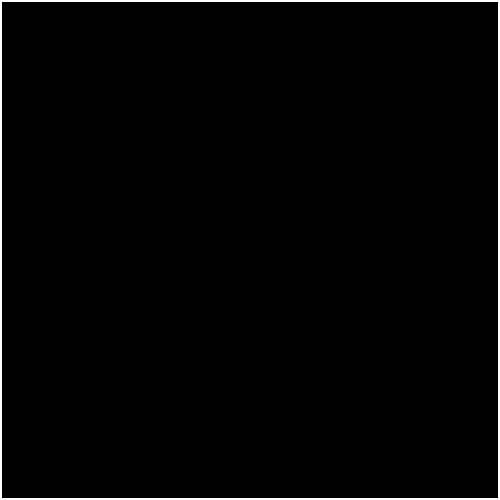
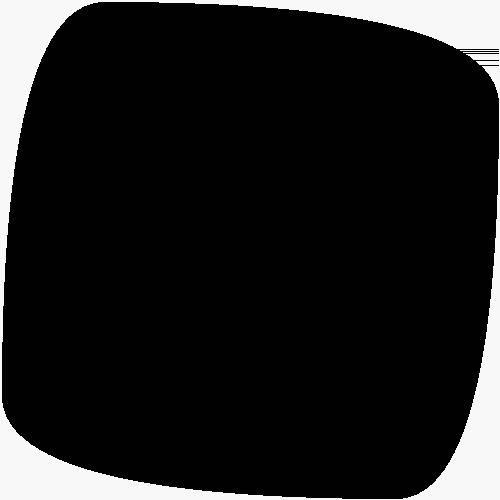
lien app - morphing

diff --git a/Projet Java/src/morphingFonction/Test.java b/Projet Java/src/morphingFonction/Test.java
@@ -3,6 +3,7 @@ package morphingFonction;
 import java.io.File;
 import java.util.ArrayList;
 import java.util.List;
+import javafx.scene.paint.Color;
 
 import first.QCurve;
 
@@ -10,69 +11,45 @@ import first.QCurve;
  * Classe Test contenant la méthode main pour tester le morphing d'images.
  */
 public class Test {
-	
+
 	/**
-     * Méthode principale pour exécuter le test de morphing d'images.
-     * 
-     * @param args les arguments de la ligne de commande
-     * @throws Exception si une erreur se produit lors de la lecture du fichier ou de la manipulation de l'image
-     */
+	 * Méthode principale pour exécuter le test de morphing d'images.
+	 * 
+	 * @param args les arguments de la ligne de commande
+	 * @throws Exception si une erreur se produit lors de la lecture du fichier ou
+	 *                   de la manipulation de l'image
+	 */
 	public static void main(String[] args) throws Exception {
-		
+
 		List<QCurve> tabD = new ArrayList<>();
-        tabD.add(0, new QCurve(2,2,2,2,2,498));
-        tabD.add(1, new QCurve(2,498,2,498,498,498));
-        tabD.add(2, new QCurve(498,498,498,498,498,2));
-        tabD.add(3, new QCurve(498,2,498,2,2,2));
-        
-        List<QCurve> tabF = new ArrayList<>();
-        tabF.add(0, new QCurve(250,2,2,2,2,250));
-        tabF.add(1, new QCurve(2,250,2,498,250,498));
-        tabF.add(2, new QCurve(250,498,498,498,498,250));
-        tabF.add(3, new QCurve(498,250,498,2,250,2));
-        
-        double nombreImg = 60;
-        int i = 25;
-        
-        QCurve[] tabIncrement = new QCurve[tabD.size()];
-        for (int j = 0; j < tabD.size(); j++) {
-            double XDepart = (tabF.get(j).getXDepart() - tabD.get(j).getXDepart()) / nombreImg;
-            double YDepart = (tabF.get(j).getYDepart() - tabD.get(j).getYDepart()) / nombreImg;
-            double XControl = (tabF.get(j).getXControl() - tabD.get(j).getXControl()) / nombreImg;
-            double YControl = (tabF.get(j).getYControl() - tabD.get(j).getYControl()) / nombreImg;
-            double XFin = (tabF.get(j).getXFin() - tabD.get(j).getXFin()) / nombreImg;
-            double YFin = (tabF.get(j).getYFin() - tabD.get(j).getYFin()) / nombreImg;
+		tabD.add(0, new QCurve(2.0, 2.0, 2.0, 2.0, 2.0, 498.0, Color.BLUE));
+		tabD.add(1, new QCurve(2, 498, 2, 498, 498, 498, Color.BLUE));
+		tabD.add(2, new QCurve(498, 498, 498, 498, 498, 2, Color.BLUE));
+		tabD.add(3, new QCurve(498, 2, 498, 2, 2, 2, Color.BLUE));
 
-            tabIncrement[j] = new QCurve(XDepart, YDepart, XControl, YControl, XFin, YFin);
-        }
+		List<QCurve> tabF = new ArrayList<>();
+		tabF.add(0, new QCurve(250, 2, 2, 2, 2, 250, Color.BLUE));
+		tabF.add(1, new QCurve(2, 250, 2, 498, 250, 498, Color.BLUE));
+		tabF.add(2, new QCurve(250, 498, 498, 498, 498, 250, Color.BLUE));
+		tabF.add(3, new QCurve(498, 250, 498, 2, 250, 2, Color.BLUE));
 
-        List<QCurve> tabSuivant = new ArrayList<>();
-        for (int j = 0; j < tabD.size(); j++) {
-            double XDepart = tabD.get(j).getXDepart() + (i * tabIncrement[j].getXDepart());
-            double YDepart = tabD.get(j).getYDepart() + (i * tabIncrement[j].getYDepart());
-            double XControl = tabD.get(j).getXControl() + (i * tabIncrement[j].getXControl());
-            double YControl = tabD.get(j).getYControl() + (i * tabIncrement[j].getYControl());
-            double XFin = tabD.get(j).getXFin() + (i * tabIncrement[j].getXFin());
-            double YFin = tabD.get(j).getYFin() + (i * tabIncrement[j].getYFin());
+		//double nombreImg = 60;
+		//int i = 25;
 
-            if (j == 0) {
-                tabSuivant.add(new QCurve(XDepart, YDepart, XControl, YControl, XFin, YFin));
-            } else {
-                tabSuivant.add(new QCurve(tabSuivant.get(j-1).getXFin(), tabSuivant.get(j-1).getYFin(), XControl, YControl, XFin, YFin));
-                System.out.println(XDepart + "," + tabSuivant.get(j).getXFin() + "," + XFin);
-            }
-        }
-        /*tabF.add(0, new QCurve(250,2,2,2,2,250));
-        tabF.add(0, new QCurve(2,250,2,498,250,498));
-        tabF.add(0, new QCurve(250,498,498,498,498,250));
-        tabF.add(0, new QCurve(498,250,498,2,250,2));*/
 		
+		/*
+		 * tabF.add(0, new QCurve(250,2,2,2,2,250)); tabF.add(0, new
+		 * QCurve(2,250,2,498,250,498)); tabF.add(0, new
+		 * QCurve(250,498,498,498,498,250)); tabF.add(0, new
+		 * QCurve(498,250,498,2,250,2));
+		 */
+
 		MorphingImg m = new MorphingImg(new File("img/gImg.jpg"), tabD);
-		
-		m.imgSuivanteFormeArrondie(tabSuivant);
-		m.creerImage();
-		//m.creerGif(tabD, tabF, 60);
-		
+
+		//m.imgSuivanteFormeArrondie(tabSuivant);
+		//m.creerImage();
+		 m.creerGif(tabD, tabF, 60);
+
 		System.out.println("Traitement terminé!");
 	}
 }

diff --git a/Projet Java/src/first/FormesArrondies.java b/Projet Java/src/first/FormesArrondies.java
@@ -1,5 +1,8 @@
 package first;
 
+import morphingFonction.*;
+
+import java.io.File;
 import java.util.ArrayList;
 import java.util.List;
 
@@ -53,6 +56,7 @@ public class FormesArrondies extends Application {
 	private ColorPicker coulCurv;
 	private Button clo;
 	private Button del;
+	private Button startMorph;
 	private QCurve curve1;
 	private QCurve curve2;
 
@@ -103,11 +107,19 @@ public class FormesArrondies extends Application {
 		del.setDisable(true);
 		del.setOnAction(event -> delete()); // Définir le gestionnaire d'événements
 		
+		startMorph = new Button("Commencer le morphing");
+        startMorph.setOnAction(event -> {
+			try {
+				startMorphing();
+			} catch (Exception e) {
+				e.printStackTrace();
+			}
+		});
 		
 		Label labCoulCurv = new Label("Couleur de la courbe");
 		coulCurv = new ColorPicker(Color.BLUE);
 		coulCurv.setOnAction(event -> changeColor(coulCurv.getValue()));
-		right.getChildren().addAll(clo,del,labCoulCurv,coulCurv);
+		right.getChildren().addAll(clo,del,labCoulCurv,coulCurv, startMorph);
 
 		
 		root = new BorderPane();
@@ -317,6 +329,25 @@ public class FormesArrondies extends Application {
 		gestPoints1.setOnMouseClicked(clickHandler);
 	}
 
+	
+    private void startMorphing() throws Exception {
+        List<QCurve> tabD = new ArrayList<>();
+        List<QCurve> tabF = new ArrayList<>();
+        for (int i = 0 ; i < curves1.size() ; i++) {
+        	tabD.add(i, curves1.get(i));
+        	tabF.add(i, curves2.get(i));
+        }
+        
+		MorphingImg m = new MorphingImg(new File("img/gImg.jpg"), tabD);
+
+		//m.imgSuivanteFormeArrondie(tabSuivant);
+		//m.creerImage();
+		 m.creerGif(tabD, tabF, 60);
+
+		System.out.println("Traitement terminé!");
+    }
+    
+    
 	public static void main(String[] args) {
 		launch(args);
 	}

diff --git a/Projet Java/src/morphingFonction/MorphingImg.java b/Projet Java/src/morphingFonction/MorphingImg.java
@@ -5,6 +5,7 @@ import java.io.File;
 import java.io.IOException;
 import java.util.ArrayList;
 import java.util.List;
+import javafx.scene.paint.Color;
 
 import javax.imageio.ImageIO;
 
@@ -203,7 +204,7 @@ public class MorphingImg {
         	double XFin = (tabF.get(j).getXFin() - tabD.get(j).getXFin()) / nombreImg;
         	double YFin = (tabF.get(j).getYFin() - tabD.get(j).getYFin()) / nombreImg;
              
-            tabIncrement[j] = new QCurve(XDepart, YDepart, XControl, YControl, XFin, YFin);
+            tabIncrement[j] = new QCurve(XDepart, YDepart, XControl, YControl, XFin, YFin, Color.BLUE);
         }
         
         // Création des images intermédiaires en interpolant les points
@@ -216,7 +217,7 @@ public class MorphingImg {
             	double YControl = tabD.get(j).getYControl() + (i * tabIncrement[j].getYControl());
             	double XFin = tabD.get(j).getXFin() + (i * tabIncrement[j].getXFin());
             	double YFin = tabD.get(j).getYFin() + (i * tabIncrement[j].getYFin());
-                tabSuivant.add(j, new QCurve(XDepart, YDepart, XControl, YControl, XFin, YFin));
+                tabSuivant.add(j, new QCurve(XDepart, YDepart, XControl, YControl, XFin, YFin, Color.BLUE));
             }
             this.imgSuivanteFormeArrondie(tabSuivant);                
             e.addFrame(this.getImg());
